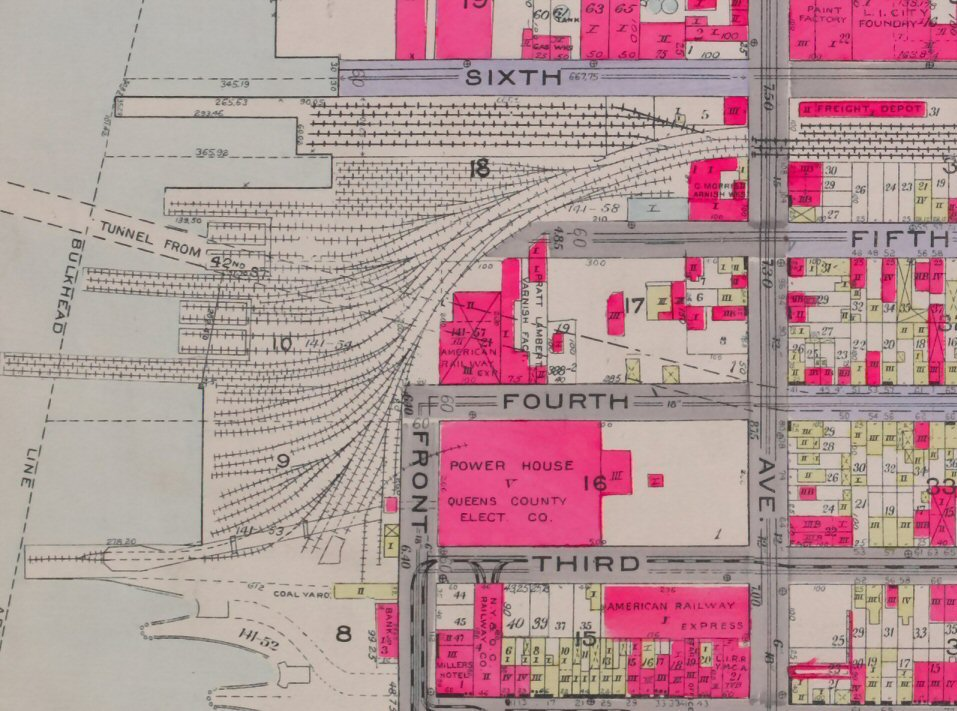
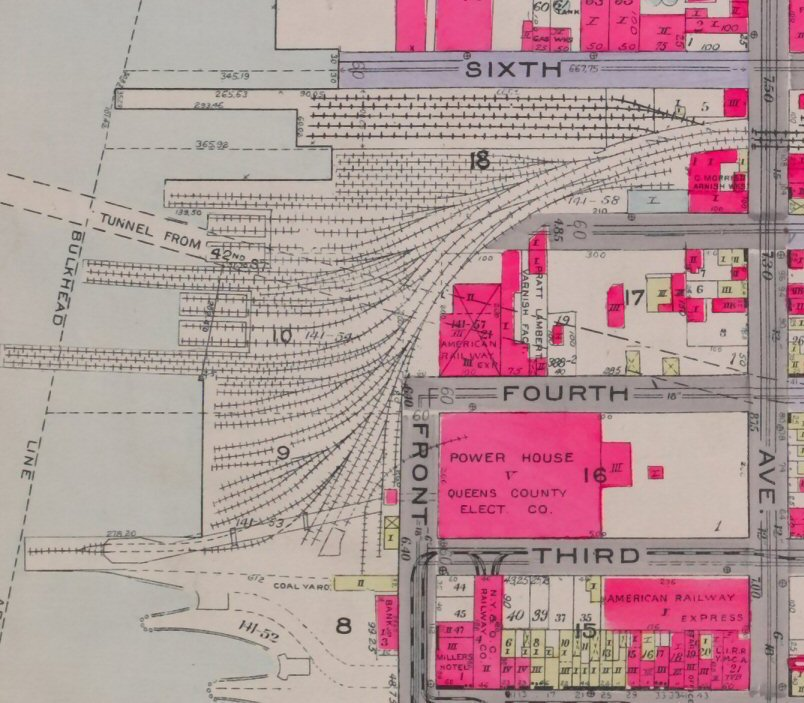
commit

diff --git a/rail/index.html b/rail/index.html
@@ -1,13 +1,12 @@
 <html>
     <head>
         <meta charset="UTF-8">
-        <title>Dirm Luawo</title>
+        <title>City of Islands</title>
         <!-- <link rel="stylesheet" type="text/css" href="reset.css"/> -->
         <link rel="stylesheet" type="text/css" href="styles_2.css"/>
-        <link
-        rel="stylesheet"
-        href="https://cdnjs.cloudflare.com/ajax/libs/animate.css/4.1.1/animate.min.css"
-      />        <link href="https://fonts.googleapis.com/css2?family=Playfair+Display&family=Roboto&display=swap" rel="stylesheet">
+        <link rel="stylesheet" href="https://cdnjs.cloudflare.com/ajax/libs/animate.css/4.1.1/animate.min.css"/>        
+        <link href="https://fonts.googleapis.com/css2?family=Playfair+Display&family=Roboto&display=swap" rel="stylesheet">
+        <link rel="icon" type="image/png" sizes="32x32" href="images/favicon-02.png">
     </head>
 
     <body>
@@ -150,7 +149,7 @@
                         </div>
     
                         <div class=" gallery__item gallery__item--3">
-                            <a href="http://www.trainsarefun.com/lirr/licity/Hunters-Point_LI-City_1919_NYPublicLib-zoom.jpg"><img draggable="false" src="images/lic_1903_nypl-cropped.jpg" class="gallery__item" style="width:100%"></a>
+                            <a href="http://www.trainsarefun.com/lirr/licity/Hunters-Point_LI-City_1919_NYPublicLib-zoom.jpg"><img draggable="false" src="images/lic_1919_nypl-zoom.jpg" class="gallery__item" style="width:100%"></a>
                         </div>
     
                         <div class="gallery__item gallery__item--6">
